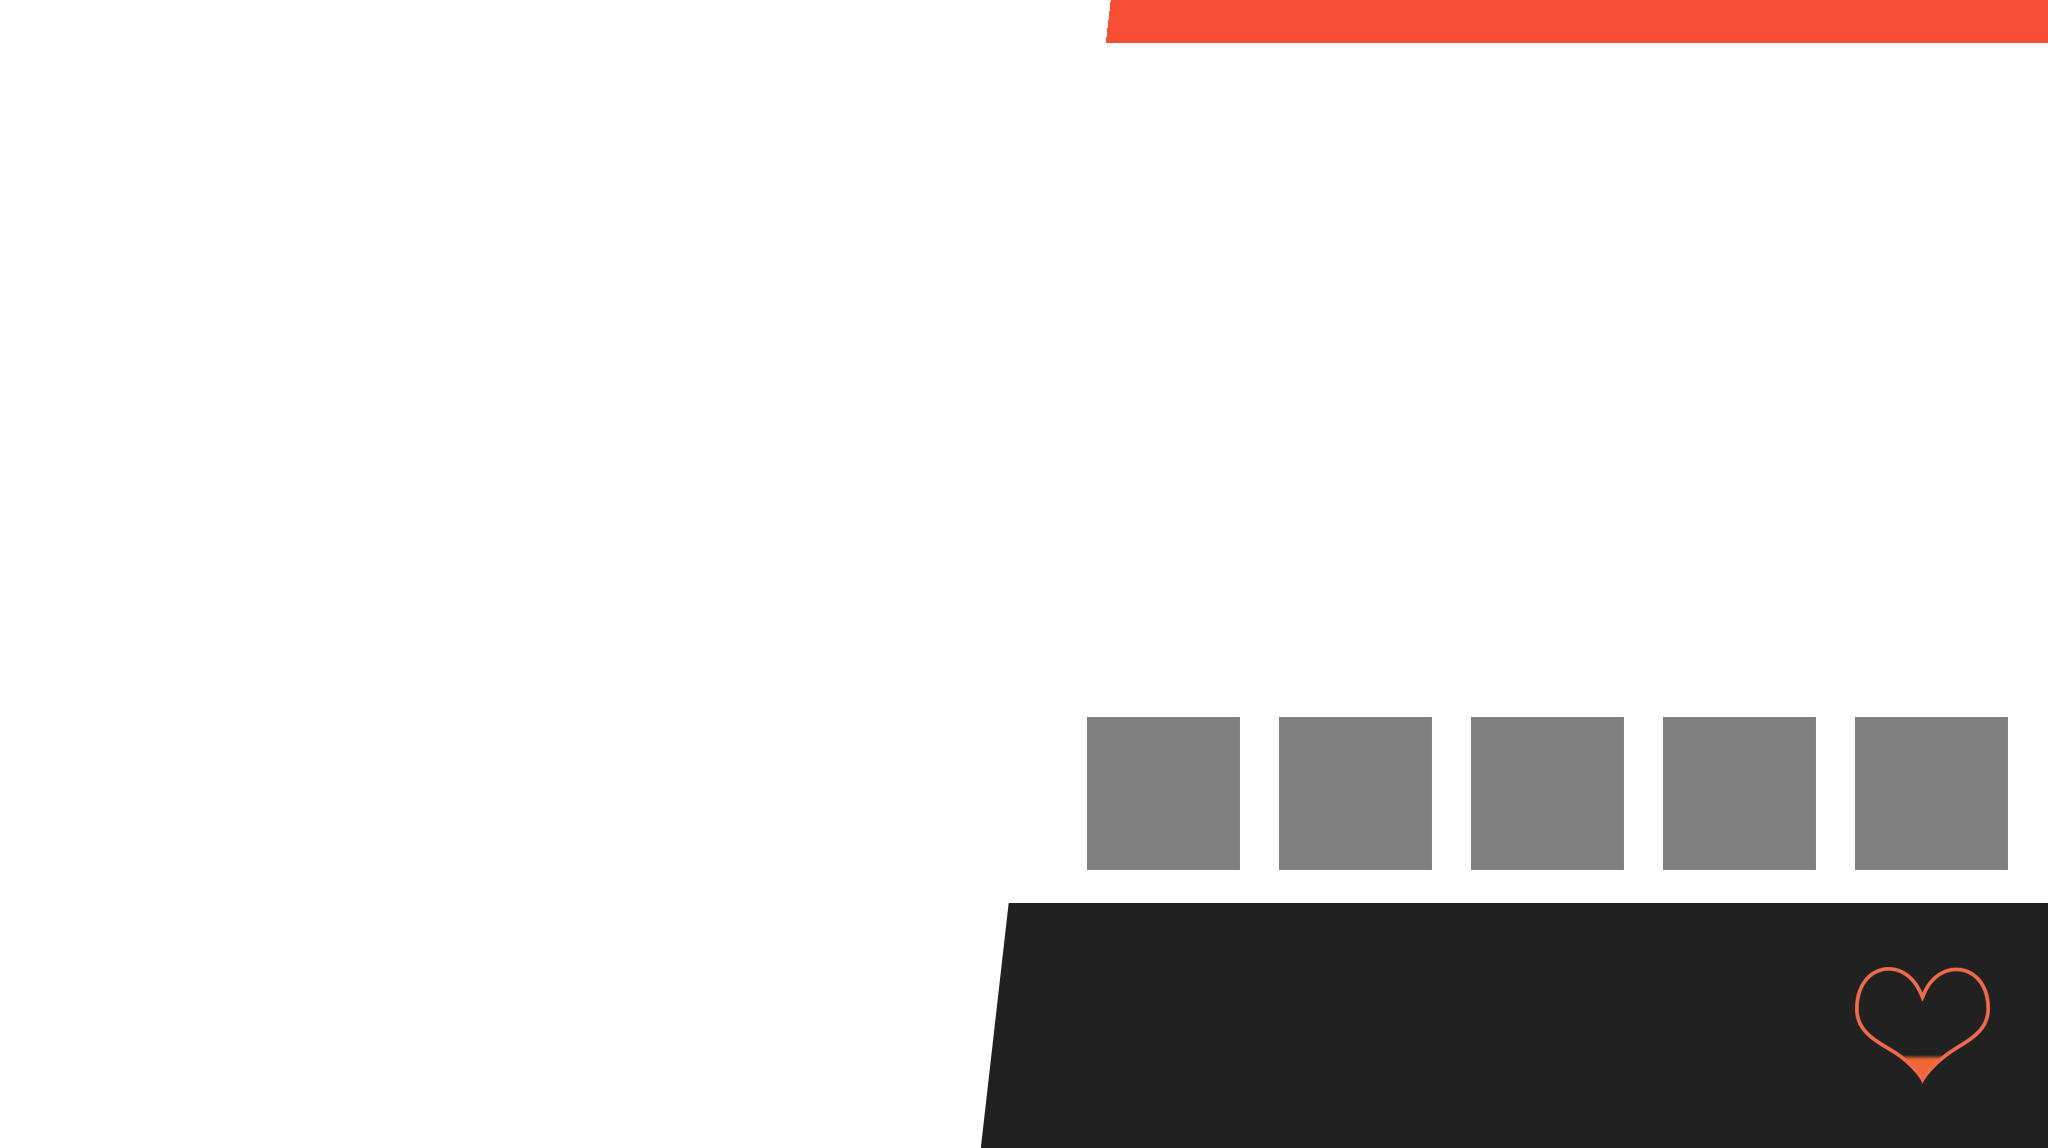
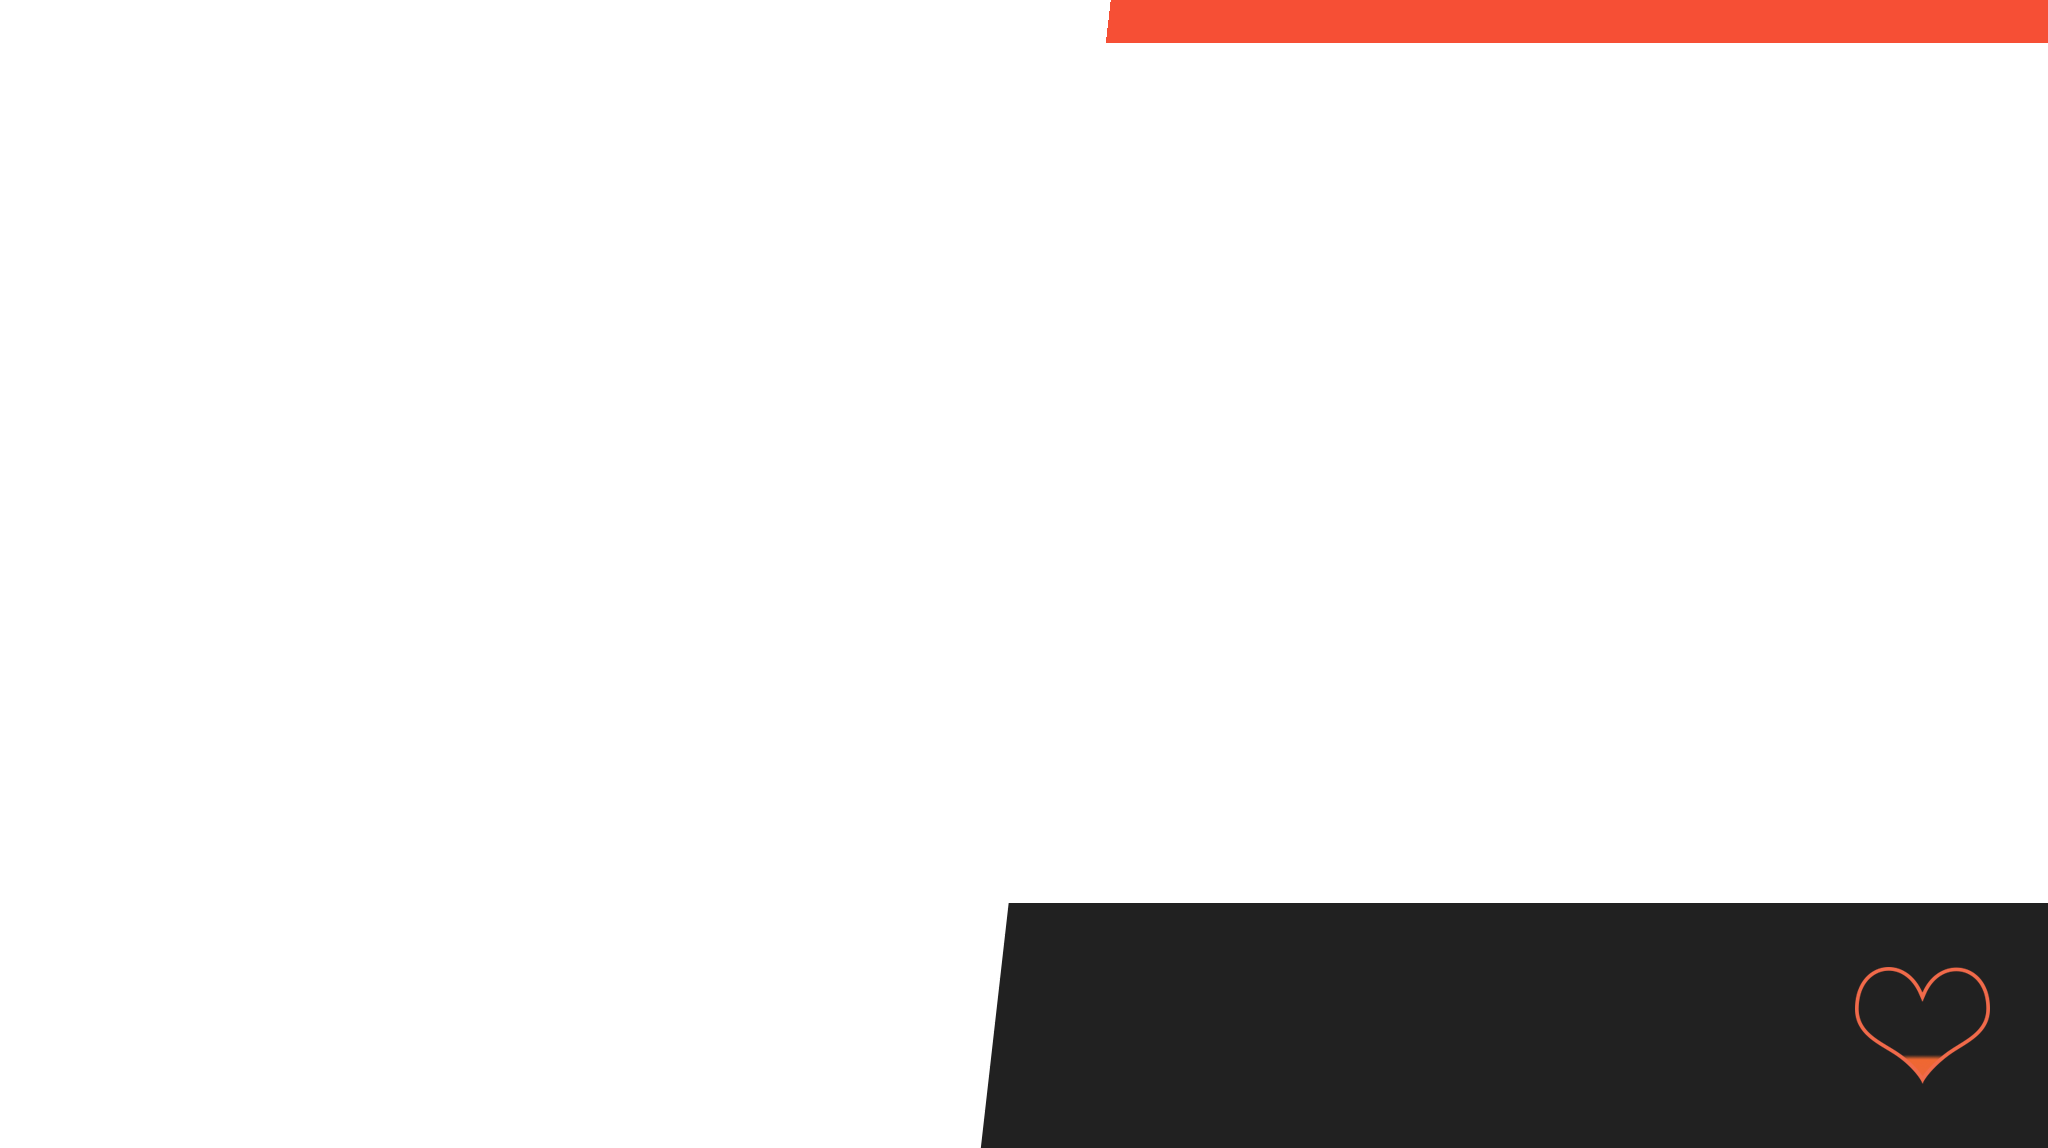
Functional badges display

Changed region(s): [[0.5312, 0.6098, 1.0, 0.7622]]

diff --git a/kernel/image.py b/kernel/image.py
@@ -1,6 +1,7 @@
 from PIL import Image, ImageDraw, ImageFont
 from urllib.request import Request, urlopen
 from textwrap import wrap
+from typing import List, Union
 import discord
 import os
 
@@ -35,7 +36,8 @@ def generate_profile(profile: discord.Member,
                      profile_desc: str,
                      profile_disp: bool,
                      avatar: str,
-                     profile_thanks: int):
+                     profile_thanks: int,
+                     profile_badges: Union[List[int], None]):
     base = Image.open(BASE_DIR + '/templates/baseWhite.png')
     avatar_mask = Image.open(BASE_DIR + '/templates/avatarMask.png').convert('L')
     avatar_link = generate_avatar(avatar, profile.id)
@@ -70,6 +72,19 @@ def generate_profile(profile: discord.Member,
     draw.text((1145 + thanks_x, 1015), 'EMERCIEMENTS'.format(profile_thanks), font=thanks_little,
               fill=(246, 78, 52, 255))
     description = wrap(profile_desc, width=38)
+    if profile_badges:
+        for i, v in enumerate(profile_badges):
+            badge = Image.open(BASE_DIR + '/badges/{}.png'.format(v))
+            if badge:
+                badge.thumbnail((256, 256), Image.ANTIALIAS)
+                if i == 0:
+                    base.paste(badge, (1100, 700), mask=badge)
+                elif i == 1:
+                    base.paste(badge, (1400, 700), mask=badge)
+                elif i == 2:
+                    base.paste(badge, (1700, 307), mask=badge)
+                else:
+                    pass
     base_y = 300
     for line in description:
         draw.text((1150, base_y), '{}'.format(line), font=desc, fill=(0, 153, 204, 255))

diff --git a/kernel/profile.py b/kernel/profile.py
@@ -110,7 +110,6 @@ class Person(RedisMixin):
     def available(self) -> bool:
         r = self.fetch('availability')
         if r:
-            r = r.decode('utf-8')
             if 'False' in r:
                 return False
             elif 'True' in r:
@@ -198,16 +197,14 @@ class Profile:
         if member_id:
             member = enrich_user_id(self.bot.server, member_id)
         profile = member or ctx.message.author
-        profile_title = Person(profile.id, self.redis).title
-        profile_thanks = Person(profile.id, self.redis).thanks_count
-        profile_desc = Person(profile.id, self.redis).desc
-        profile_disp = Person(profile.id, self.redis).available
-        if profile_title:
-            profile_title = profile_title.decode('utf-8')
+        redis_profile = Person(profile.id, self.redis)
+        profile_title = redis_profile.title
+        profile_thanks = redis_profile.thanks_count
+        profile_desc = redis_profile.desc
+        profile_disp = redis_profile.available
+        profile_badges = redis_profile.badges
         if profile_thanks:
             profile_thanks = int(profile_thanks)
-        if profile_desc:
-            profile_desc = profile_desc.decode('utf-8')
         picture = generate_profile(
             profile,
             profile.name,
@@ -216,6 +213,7 @@ class Profile:
             profile_disp,
             profile.avatar_url,
             profile_thanks or 0,
+            profile_badges or None,
         )
         if picture:
             await self.bot.send_file(
